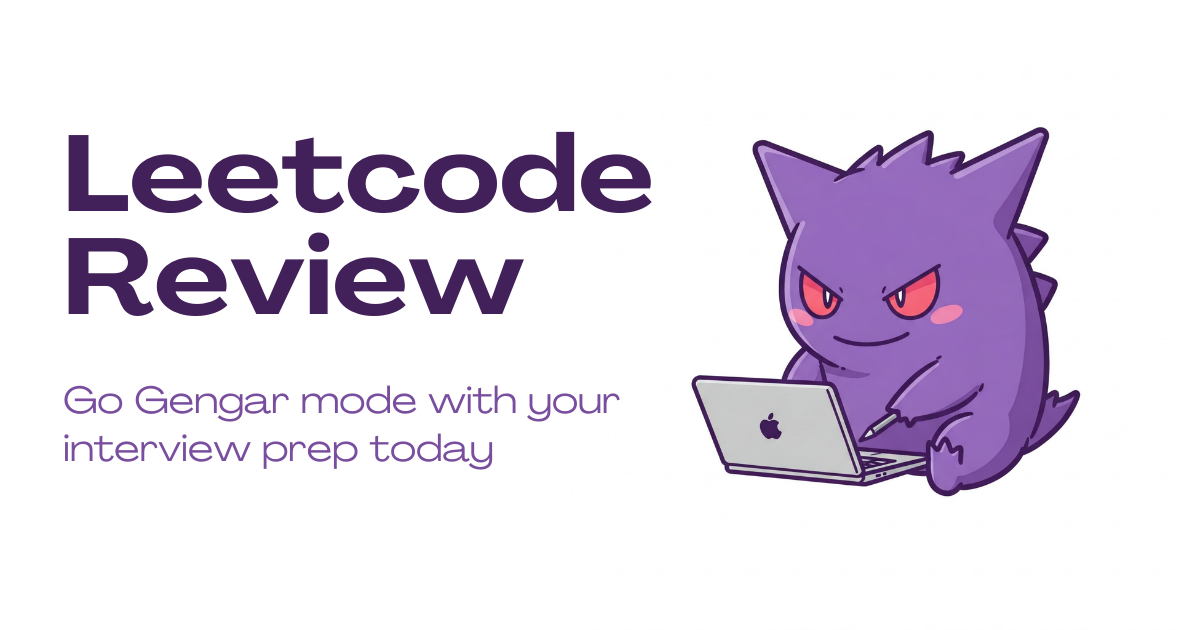
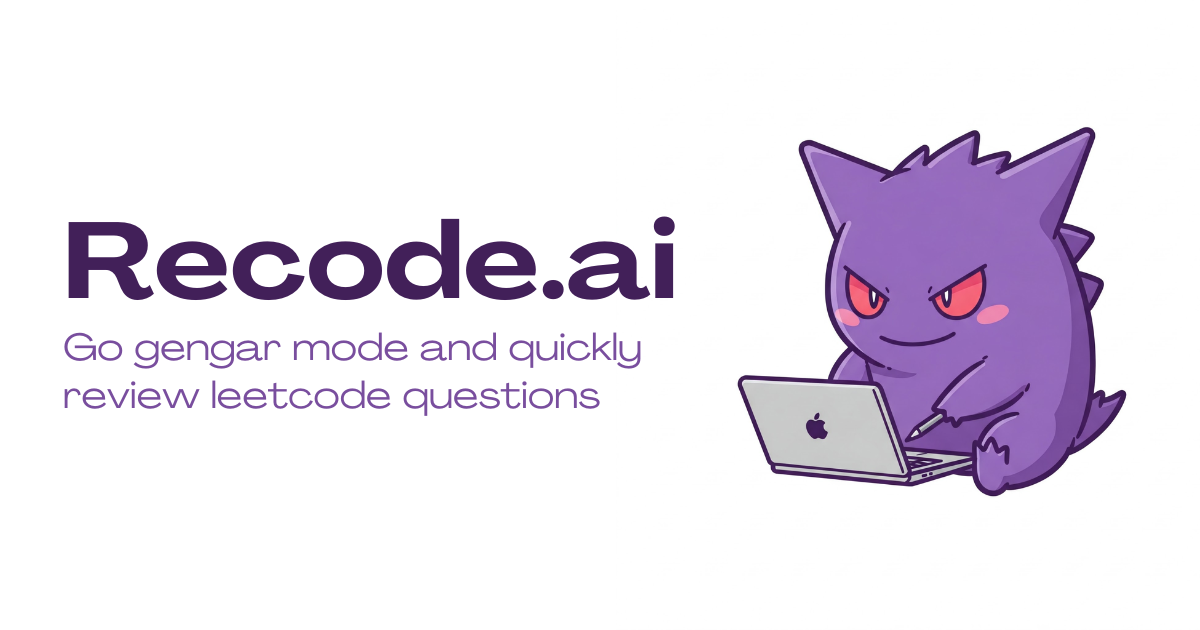
rebrand to recode

diff --git a/site/src/app/layout.tsx b/site/src/app/layout.tsx
@@ -8,8 +8,8 @@ const defaultUrl = process.env.VERCEL_URL
 
 export const metadata = {
   metadataBase: new URL(defaultUrl),
-  title: 'Leetcode Review',
-  description: 'Quickly refresh yourself on many leetcode questions.',
+  title: 'Recode.ai',
+  description: 'Go gengar mode and quickly review leetcode questions.',
   openGraph: {
     images: '/opengraph-image.png',
   },

diff --git a/site/src/components/layout/responsive-header.tsx b/site/src/components/layout/responsive-header.tsx
@@ -15,7 +15,7 @@ const HeroIcon = () => (
   <Button asChild variant="ghost">
     <Link href="/home">
       <GengarIcon />
-      <h1 className="text-lg font-medium pr-2">Leetcode Review</h1>
+      <h1 className="text-lg font-medium pr-2">Recode.ai</h1>
     </Link>
   </Button>
 );
